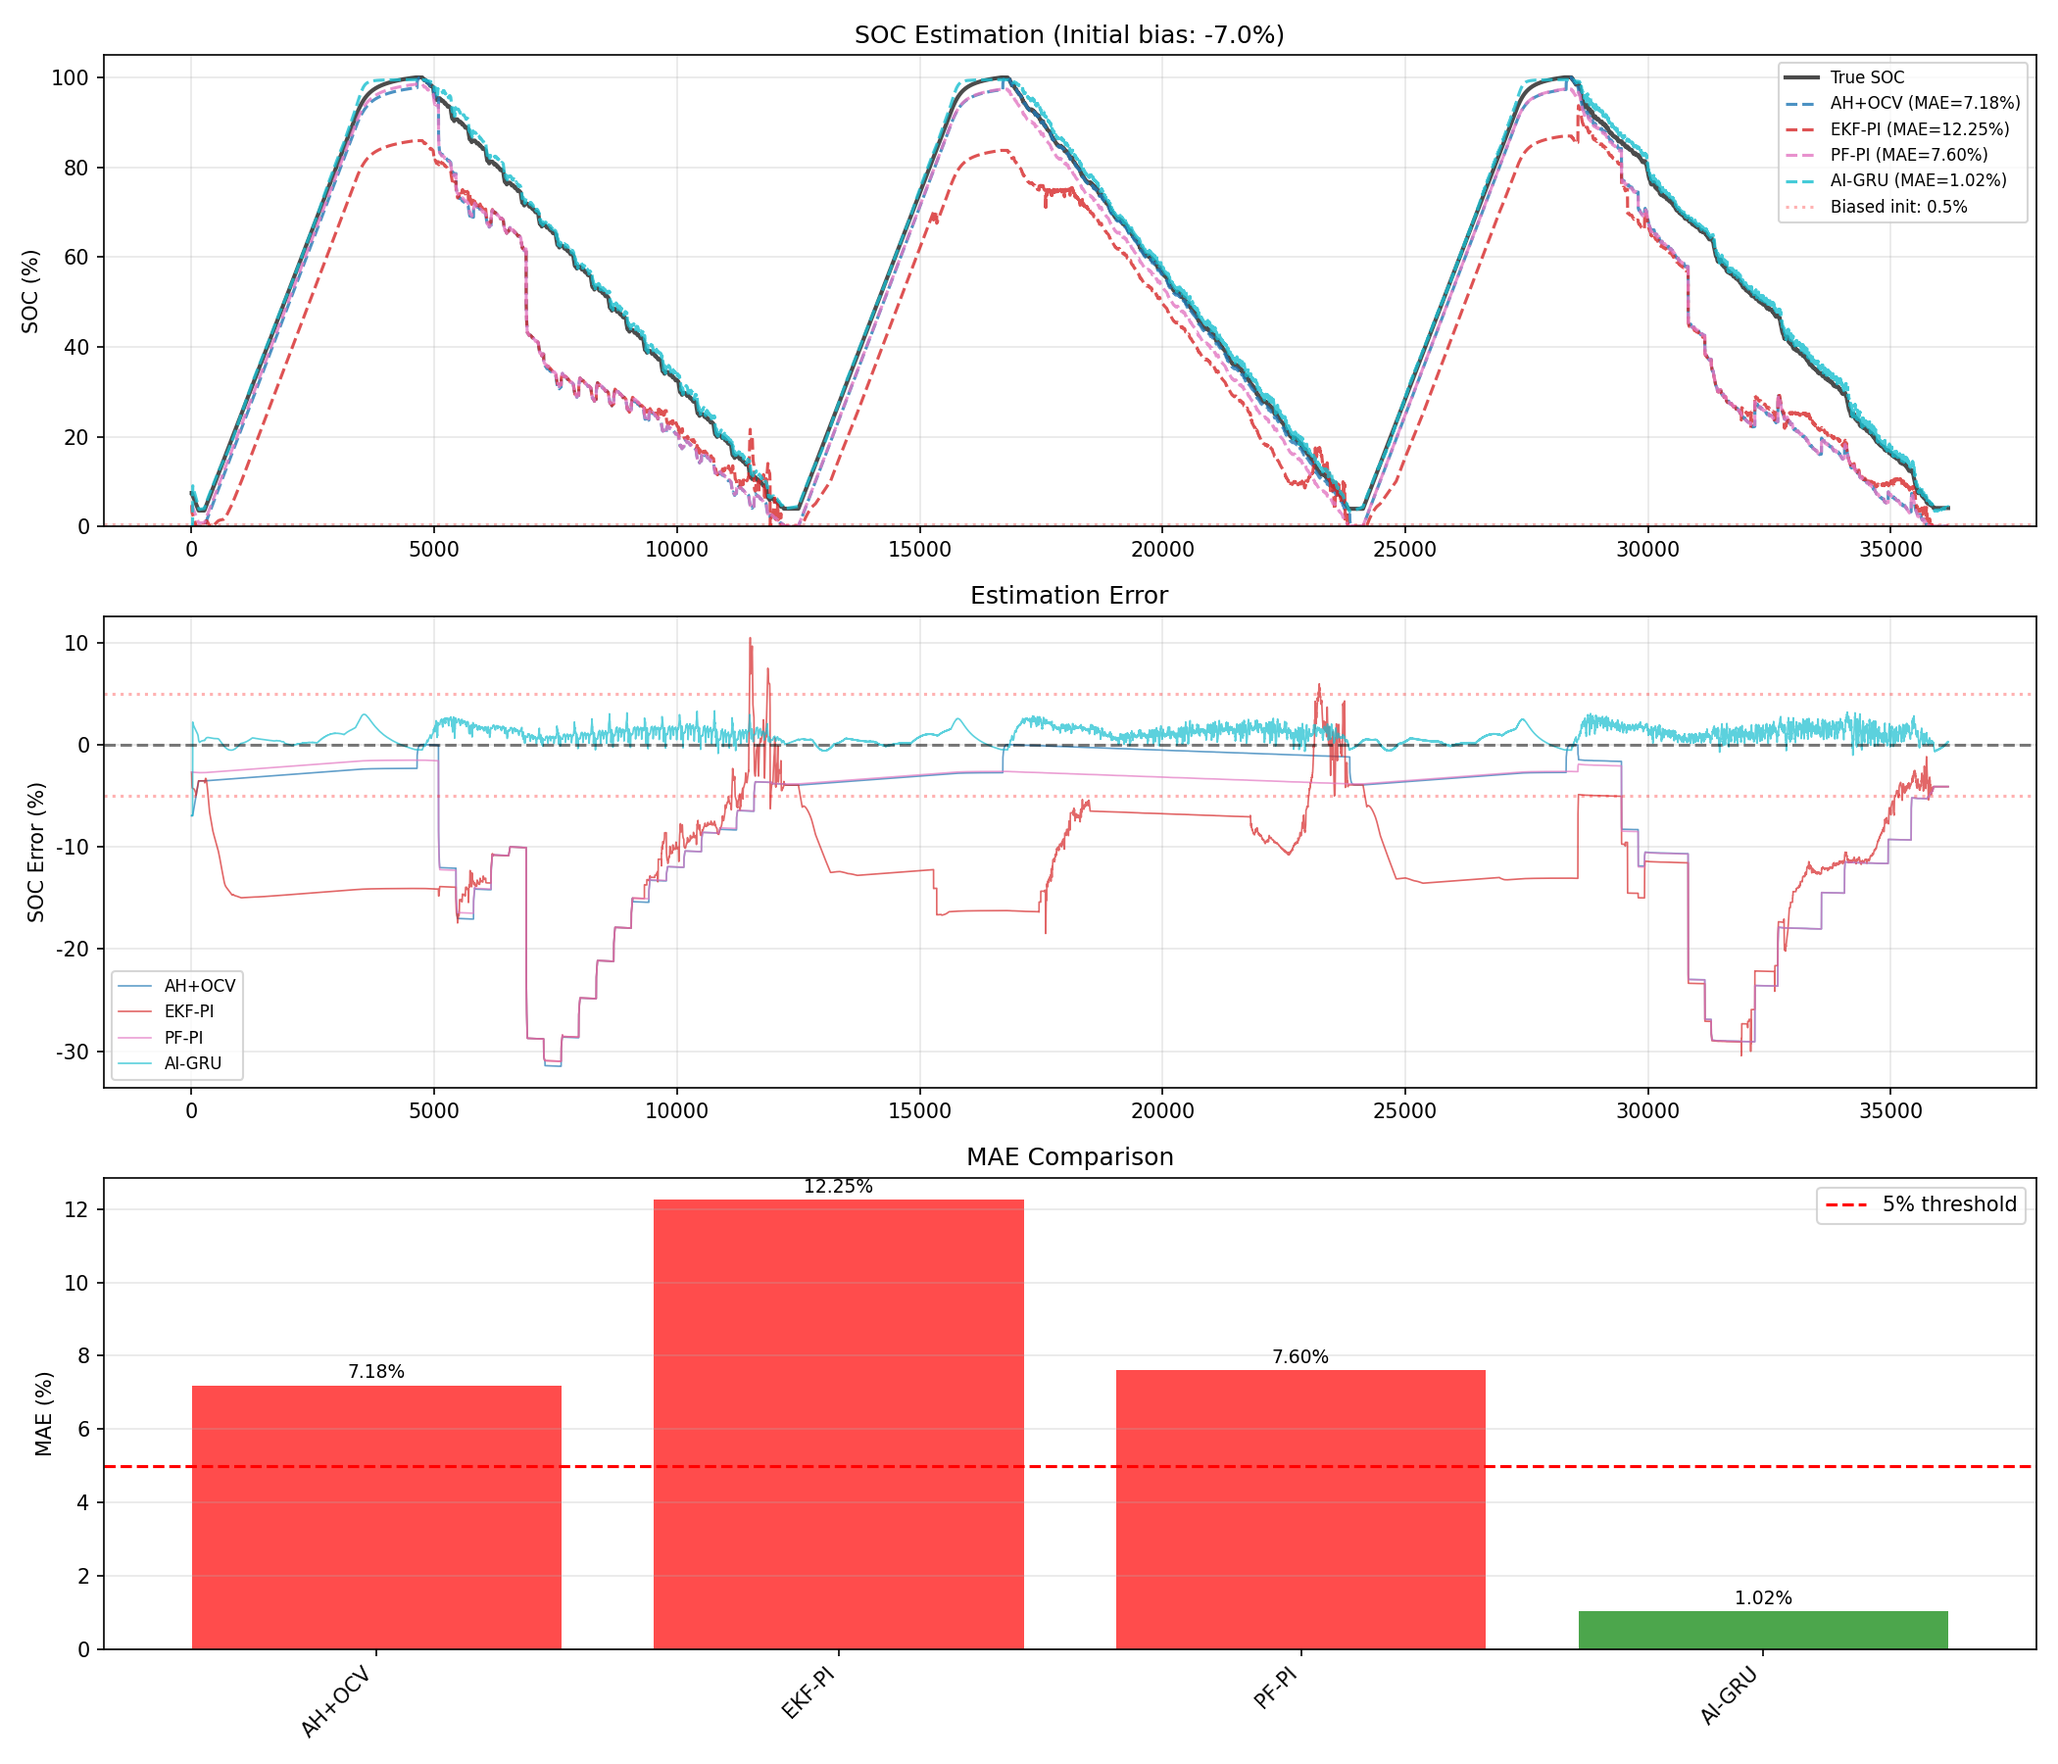
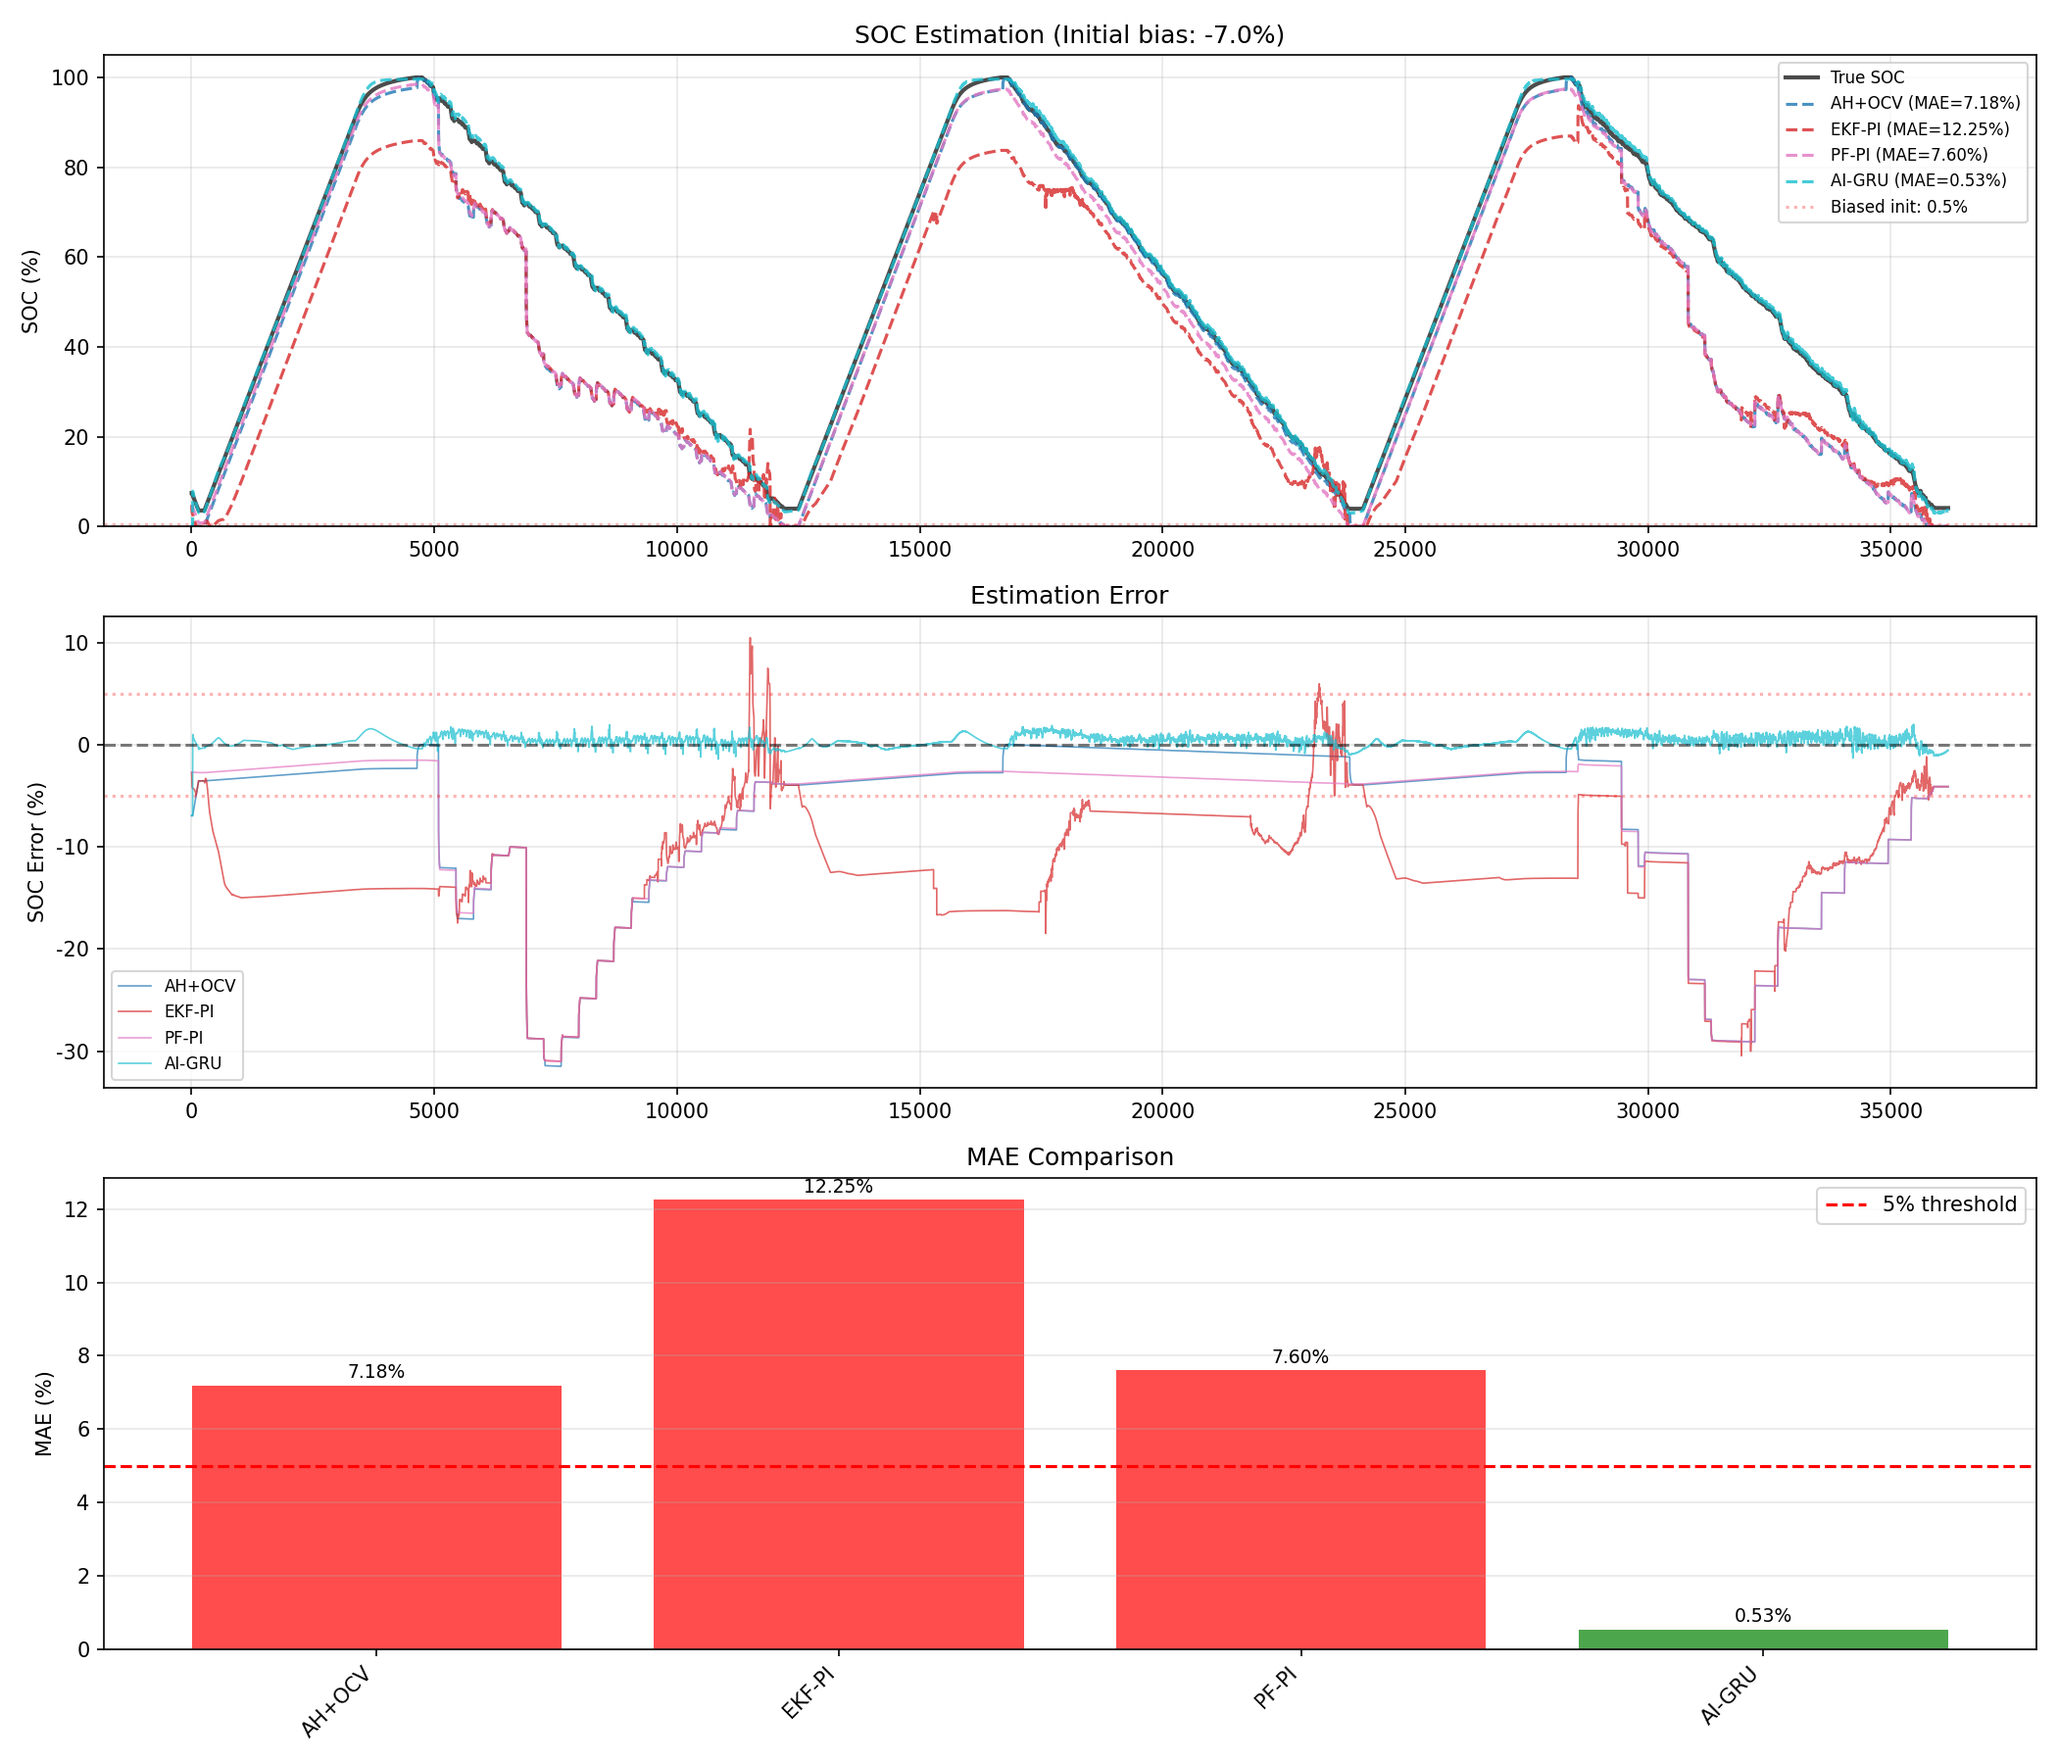
Round 3: Multi-agent iteration
== Agent Collaboration Round 3 ==
  AH+OCV: Avg MaxErr=35.23%, Pass=0/8
  AI-GRU: Avg MaxErr=7.85%, Pass=0/8
  EKF-PI: Avg MaxErr=42.58%, Pass=0/8
  PF-PI: Avg MaxErr=34.42%, Pass=0/8

Target: MaxErr < 5% per file. IN PROGRESS

diff --git a/AGENT_LOG.md b/AGENT_LOG.md
@@ -190,3 +190,76 @@
 == Agent Collaboration Round 2 ==
   AH+OCV: Avg ...
 
+**[Agent-Commit]** (11:58:38):   ⚠ 推送失败: fatal: unable to access 'https://github.com/love0968314059-hash/BatterySOC.git/': Failed to connect to github.com port 443 after 75008 ms: Operation timed out
+
+
+
+---
+
+## Round 3
+
+**[Agent-Eval]** (11:58:38): ⚙ 运行Round 3估计 (含AI训练+推理)...
+
+**[Agent-Eval]** (12:07:06): 📊 评估报告 - 按文件和方法统计MaxErr：
+
+**[Agent-Eval]** (12:07:06): 方法总结
+
+| Method | Avg MAE | Avg MaxErr | Worst MaxErr | Pass/Total | Status |
+| --- | --- | --- | --- | --- | --- |
+| AH+OCV | 8.72% | 35.23% | 50.44% | 0/8 | ❌ 8 FAIL |
+| AI-GRU | 2.16% | 7.85% | 10.03% | 0/8 | ❌ 8 FAIL |
+| EKF-PI | 16.18% | 42.58% | 78.01% | 0/8 | ❌ 8 FAIL |
+| PF-PI | 9.77% | 34.42% | 50.50% | 0/8 | ❌ 8 FAIL |
+
+**[Agent-Eval]** (12:07:06): 🔍 失败文件分析 (32 条记录)：
+
+**[Agent-Eval]** (12:07:06): 失败详情
+
+| Temp | Method | MaxErr | MaxErr@Time | ErrStart | ErrEnd | 原因 |
+| --- | --- | --- | --- | --- | --- | --- |
+| 0°C | AH+OCV | 50.4% | 7855s | 10.0% | 11.3% | 初始偏差未收敛 |
+| 0°C | EKF-PI | 78.0% | 27493s | 10.0% | 11.1% | 初始偏差未收敛 |
+| 0°C | PF-PI | 50.5% | 7855s | 10.0% | 11.3% | 初始偏差未收敛 |
+| 0°C | AI-GRU | 10.0% | 3s | 10.0% | 0.5% | 初始偏差未收敛 |
+| 10°C | AH+OCV | 42.0% | 7446s | 8.0% | 7.6% | 初始偏差未收敛 |
+| 10°C | EKF-PI | 43.8% | 8423s | 9.5% | 7.3% | 初始偏差未收敛 |
+| 10°C | PF-PI | 41.9% | 7448s | 8.1% | 7.6% | 初始偏差未收敛 |
+| 10°C | AI-GRU | 8.0% | 6s | 8.0% | 0.6% | 初始偏差未收敛 |
+| 20°C | AH+OCV | 35.9% | 7416s | 8.2% | 5.9% | 初始偏差未收敛 |
+| 20°C | EKF-PI | 40.1% | 20120s | 8.0% | 5.9% | 初始偏差未收敛 |
+| 20°C | PF-PI | 35.4% | 7416s | 8.0% | 5.9% | 初始偏差未收敛 |
+| 20°C | AI-GRU | 8.3% | 6s | 8.2% | 1.2% | 初始偏差未收敛 |
+| 25°C | AH+OCV | 36.8% | 31454s | 10.0% | 4.5% | 初始偏差未收敛 |
+| 25°C | EKF-PI | 33.5% | 26160s | 4.8% | 4.5% | 容量漂移累积 |
+| 25°C | PF-PI | 32.4% | 7717s | 10.2% | 4.5% | 初始偏差未收敛 |
+| 25°C | AI-GRU | 10.0% | 6s | 10.0% | 0.0% | 初始偏差未收敛 |
+| 30°C | AH+OCV | 31.5% | 7575s | 7.0% | 4.1% | 初始偏差未收敛 |
+| 30°C | EKF-PI | 31.0% | 7575s | 2.7% | 4.1% | 容量漂移累积 |
+| 30°C | PF-PI | 31.0% | 7575s | 2.7% | 4.1% | 容量漂移累积 |
+| 30°C | AI-GRU | 7.0% | 3s | 7.0% | 0.5% | 初始偏差未收敛 |
+| 40°C | AH+OCV | 32.1% | 30849s | 3.1% | 2.7% | 容量漂移累积 |
+| 40°C | EKF-PI | 27.1% | 27058s | 3.0% | 2.7% | 容量漂移累积 |
+| 40°C | PF-PI | 26.4% | 7281s | 3.0% | 2.7% | 容量漂移累积 |
+| 40°C | AI-GRU | 5.6% | 8673s | 3.1% | 0.7% | 容量漂移累积 |
+| 50°C | AH+OCV | 24.3% | 31395s | 1.9% | 2.3% | 容量漂移累积 |
+| 50°C | EKF-PI | 23.5% | 31395s | 1.9% | 2.3% | 容量漂移累积 |
+| 50°C | PF-PI | 23.1% | 31395s | 1.0% | 2.3% | 容量漂移累积 |
+| 50°C | AI-GRU | 6.2% | 8154s | 1.9% | 0.6% | 容量漂移累积 |
+| N10°C | AH+OCV | 28.8% | 13150s | 7.0% | 21.3% | 初始偏差未收敛 |
+| N10°C | EKF-PI | 63.6% | 20527s | 15.0% | 20.7% | 初始偏差未收敛 |
+| N10°C | PF-PI | 34.7% | 34558s | 6.8% | 21.3% | 初始偏差未收敛 |
+| N10°C | AI-GRU | 7.7% | 11663s | 7.0% | 4.1% | 初始偏差未收敛 |
+
+**[Agent-Eval]** (12:07:06): 💡 建议1: 初始SOC偏差导致 21 条失败。需要: (a) 使用OCV查表估计初始SOC, (b) 增加OCV校准权重, (c) 在非平坦区启用EKF电压校正。
+
+**[Agent-Eval]** (12:07:06): 💡 建议2: 容量漂移导致 11 条失败。需要: (a) 允许持续OCV校准(非单次触发), (b) 增大校准权重, (c) 使用AI方法避免漂移。
+
+**[Agent-Commit]** (12:07:06): 📊 生成可视化图表...
+
+**[Agent-Commit]** (12:07:06):   ✅ 保存: summary_maxerr_all_methods.png
+
+**[Agent-Commit]** (12:07:06): 📝 提交: Round 3: Multi-agent iteration
+
+== Agent Collaboration Round 3 ==
+  AH+OCV: Avg ...
+
